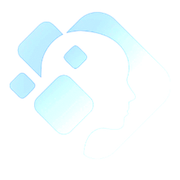
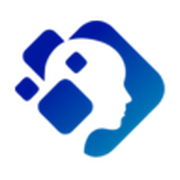
Align public site branding and fix footer links and chat wait

diff --git a/index.html b/index.html
@@ -7,6 +7,13 @@
 <meta name="viewport" content="width=device-width, initial-scale=1.0">
[1 lines of base64/hex data omitted]
 <title>Blumark24</title>
+<link rel="canonical" href="https://www.blumark24.com/">
+<meta property="og:site_name" content="Blumark24">
+<meta property="og:title" content="Blumark24">
+<meta name="twitter:title" content="Blumark24">
+<script type="application/ld+json">
+{"@context":"https://schema.org","@type":"WebSite","name":"Blumark24","url":"https://www.blumark24.com/"}
+</script>
 <meta name="description" content="Blumark24 تقدم حلول AI للأعمال في السعودية: مواقع احترافية، واتساب بوت ذكي، منيو رقمي، CRM، أتمتة تشغيلية وتحسين Google Maps للمطاعم والشركات.">
 <script src="https://cdn.tailwindcss.com"></script>
 <link rel="preconnect" href="https://fonts.googleapis.com">
@@ -14,10 +21,10 @@
 <link rel="stylesheet" href="https://cdnjs.cloudflare.com/ajax/libs/font-awesome/6.5.0/css/all.min.css">
 <link rel="icon" type="image/png" sizes="96x96" href="/favicon-brand-96.png">
 <link rel="icon" type="image/x-icon" href="/favicon.ico" sizes="16x16 32x32 48x48 96x96">
-<link rel="apple-touch-icon" sizes="180x180" href="/apple-touch-icon.png">
-<meta property="og:image" content="assets/branding/blumark24-logo-new.png">
+<link rel="apple-touch-icon" sizes="180x180" href="/apple-touch-icon-blue.png">
+<meta property="og:image" content="https://www.blumark24.com/assets/branding/blumark24-official-blue.png">
 <meta name="twitter:card" content="summary_large_image">
-<meta name="twitter:image" content="assets/branding/blumark24-logo-new.png">
+<meta name="twitter:image" content="https://www.blumark24.com/assets/branding/blumark24-official-blue.png">
 <style>
   :root {
     --navy: #0A0F2C;
@@ -666,7 +673,7 @@
   }
 </style>
 <script type="application/ld+json">
-{"@context":"https://schema.org","@type":"Organization","name":"Blumark24","url":"https://blumark24.com","logo":"https://blumark24.com/assets/branding/blumark24-logo-new.png","sameAs":["https://www.instagram.com/blumark24","https://x.com/blumark24","https://www.linkedin.com/company/blumark24ksa/","https://www.tiktok.com/@blumark24"]}
+{"@context":"https://schema.org","@type":"Organization","name":"Blumark24","url":"https://www.blumark24.com/","logo":"https://www.blumark24.com/assets/branding/blumark24-official-blue.png","sameAs":["https://www.instagram.com/blumark24","https://x.com/blumark24","https://www.linkedin.com/company/blumark24ksa/","https://www.tiktok.com/@blumark24"]}
 </script>
   <link rel="stylesheet" href="assets/css/future-simulator.css">
 </head>
@@ -687,7 +694,7 @@
 
       <!-- Logo (Left) -->
       <a href="#hero" class="flex-shrink-0 flex items-center" onclick="closeMenu()">
-        <img src="assets/branding/blumark24-logo-new.png" alt="Blumark24" style="width:160px;height:auto;object-fit:contain;max-width:180px">
+        <img src="assets/branding/blumark24-official-blue.png" alt="Blumark24" style="width:160px;height:auto;object-fit:contain;max-width:180px">
       </a>
 
       <!-- Menu Toggle (Right — all sizes) -->
@@ -1563,7 +1570,7 @@
       <!-- Brand -->
       <div class="md:col-span-2">
         <div class="mb-4">
-          <img src="assets/branding/blumark24-logo-new.png" alt="Blumark24" style="width:125px;height:auto;object-fit:contain;max-width:160px;opacity:0.95">
+          <img src="assets/branding/blumark24-official-blue.png" alt="Blumark24" style="width:125px;height:auto;object-fit:contain;max-width:160px;opacity:0.95">
         </div>
         <p class="text-gray-400 text-sm leading-relaxed max-w-sm">
           وكالة تسويق رقمي سعودية متخصصة في حلول الذكاء الاصطناعي لتحويل الأعمال ومواكبة رؤية 2030
@@ -1588,11 +1595,11 @@
       <div>
         <h4 class="font-black text-white mb-4 text-sm">الخدمات</h4>
         <ul class="space-y-2 text-sm text-gray-400">
-          <li><a href="#" class="hover:text-[#00A8FF] transition-colors">تصميم المواقع</a></li>
-          <li><a href="#" class="hover:text-[#00A8FF] transition-colors">بوت واتساب الذكي</a></li>
-          <li><a href="#" class="hover:text-[#00A8FF] transition-colors">المنيو الرقمي</a></li>
-          <li><a href="#" class="hover:text-[#00A8FF] transition-colors">CRM وإدارة العملاء</a></li>
-          <li><a href="#" class="hover:text-[#00A8FF] transition-colors">تقارير AI</a></li>
+          <li><a href="#services" class="hover:text-[#00A8FF] transition-colors">تصميم المواقع</a></li>
+          <li><a href="#services" class="hover:text-[#00A8FF] transition-colors">بوت واتساب الذكي</a></li>
+          <li><a href="#services" class="hover:text-[#00A8FF] transition-colors">المنيو الرقمي</a></li>
+          <li><a href="#services" class="hover:text-[#00A8FF] transition-colors">CRM وإدارة العملاء</a></li>
+          <li><a href="#services" class="hover:text-[#00A8FF] transition-colors">تقارير AI</a></li>
         </ul>
       </div>
 
@@ -1802,6 +1809,7 @@ function closeChat() {
 
 // ── OpenRouter chat integration ──
 const _chatHistory = [];
+let chatRequestPending = false;
 
 function _escapeHtml(s) {
   return String(s == null ? '' : s)
@@ -1859,13 +1867,17 @@ function _addLoadingBubble() {
 }
 
 async function _fetchReply(userMessage) {
-  _chatHistory.push({ role: 'user', content: userMessage });
+  chatRequestPending = true;
+  const controller = new AbortController();
+  const timeout = setTimeout(() => controller.abort(), 12000);
+  const userTurn = { role: 'user', content: userMessage };
   _addLoadingBubble();
   try {
     const res = await fetch('/api/chat', {
       method: 'POST',
       headers: { 'Content-Type': 'application/json' },
-      body: JSON.stringify({ messages: _chatHistory })
+      signal: controller.signal,
+      body: JSON.stringify({ messages: [..._chatHistory.slice(-10), userTurn] })
     });
     const loading = document.getElementById('chat-loading');
     if (loading) loading.remove();
@@ -1873,16 +1885,21 @@ async function _fetchReply(userMessage) {
     const data = await res.json();
     const reply = data.text || '';
     if (!reply) throw new Error('empty');
-    _chatHistory.push({ role: 'assistant', content: reply });
+    _chatHistory.push(userTurn, { role: 'assistant', content: reply });
+    if (_chatHistory.length > 10) _chatHistory.splice(0, _chatHistory.length - 10);
     addMessage(reply, true);
   } catch (_err) {
     const loading = document.getElementById('chat-loading');
     if (loading) loading.remove();
     addMessage('عذراً، حدثت مشكلة مؤقتة. فضلاً جرّب مرة أخرى أو تواصل عبر واتساب:\nhttps://wa.me/966507006849', true);
+  } finally {
+    clearTimeout(timeout);
+    chatRequestPending = false;
   }
 }
 
 function sendChat() {
+  if (chatRequestPending) return;
   const inp = document.getElementById('chat-input');
   const text = inp.value.trim();
   if (!text) return;
@@ -1892,6 +1909,7 @@ function sendChat() {
 }
 
 function quickReply(type) {
+  if (chatRequestPending) return;
   addMessage(type, false);
   if (type === 'استشارة') {
     setTimeout(() => window.open('https://wa.me/966507006849?text=أريد استشارة مجانية', '_blank'), 2000);
@@ -1902,7 +1920,8 @@ function quickReply(type) {
 // ══════ SMOOTH SCROLL ══════
 document.querySelectorAll('a[href^="#"]').forEach(a => {
   a.addEventListener('click', e => {
-    const target = document.querySelector(a.getAttribute('href'));
+    const anchor = a.getAttribute('href');
+    const target = anchor && anchor.length > 1 ? document.getElementById(anchor.slice(1)) : null;
     if (target) {
       e.preventDefault();
       target.scrollIntoView({ behavior: 'smooth', block: 'start' });

diff --git a/api/chat.js b/api/chat.js
@@ -210,7 +210,7 @@ const SHORTCUT_ROUTES = [
   {
     name: 'packages',
     keywords: ['الباقات'],
-    text: 'باقات Blumark24:\n\n1. START — 399 ريال\nبداية رقمية سريعة.\n2. GROWTH — 999 ريال شهرياً\nموقع + بوت واتساب + منيو ذكي.\n3. ADVANCED — 1999 ريال شهرياً\nأتمتة متقدمة + تقارير + تكاملات.\n\nما نوع نشاطك عشان أرشح لك الأنسب؟'
+    text: 'باقات Blumark24:\n\n1. START — 399 ريال\nبداية رقمية سريعة.\n2. GROWTH — 999 ريال شهرياً\nموقع + بوت واتساب + منيو ذكي.\n3. PRO MAX — 1999 ريال شهرياً\nأتمتة متقدمة + تقارير + تكاملات.\n\nما نوع نشاطك عشان أرشح لك الأنسب؟'
   },
   {
     name: 'services',
